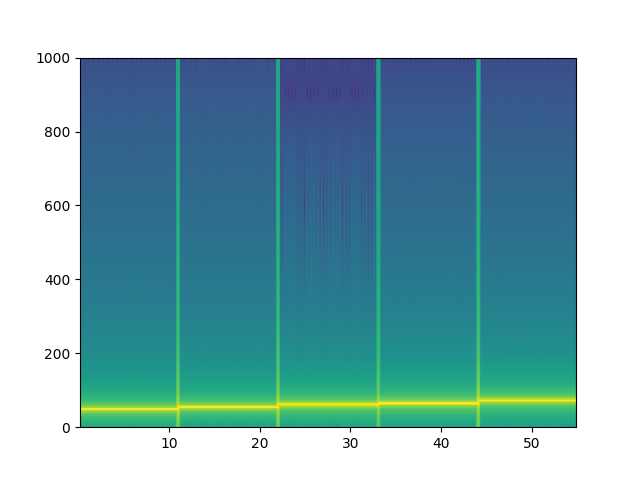
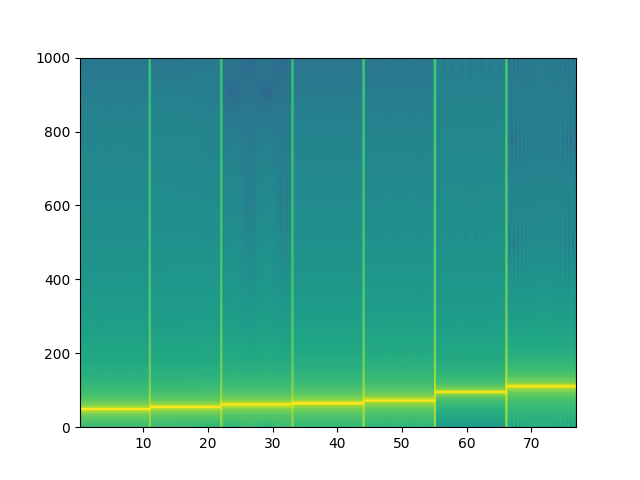
tune the graph

diff --git a/generate.py b/generate.py
@@ -2,7 +2,7 @@ import numpy
 import scipy.io.wavfile
 import matplotlib.pyplot
 
-doremi = [523.0, 587.0, 659.0, 698.0, 784.0] # C,D,E,F,G or Do,Re,Mi,Fa,So
+doremi = [523.0, 587.0, 659.0, 698.0, 784.0, 1035.0, 1200.0] # C,D,E,F,G or Do,Re,Mi,Fa,So
 NFFT = 1024       # the length of the windowing segments
 dt = 0.0005
 Fs = int(1.0/dt)  # the sampling frequency
@@ -22,7 +22,6 @@ print song
 print type(song)
 #print type(song.tolist())
 
-
 scipy.io.wavfile.write('doremi.wav', sampling_rate, song.astype(numpy.int16))
-matplotlib.pyplot.specgram(song, NFFT=NFFT, Fs=Fs, noverlap=500) # generate spectogram
+matplotlib.pyplot.specgram(song, NFFT=NFFT, Fs=Fs, noverlap=900) # generate spectogram
 matplotlib.pyplot.savefig('doremi.png')
